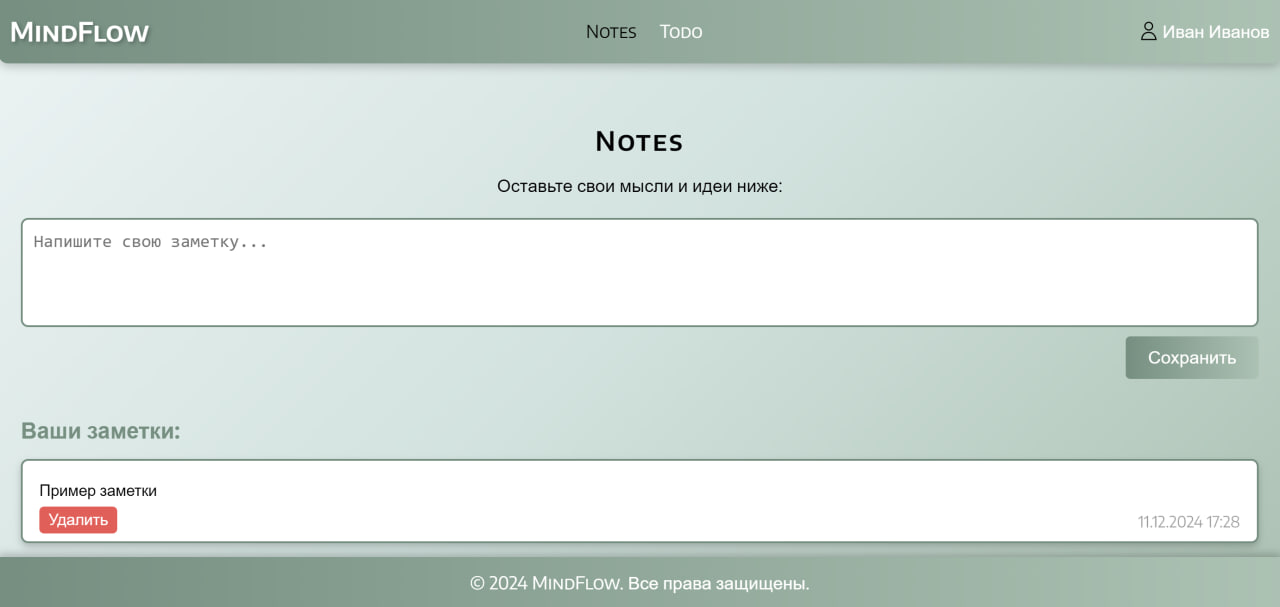
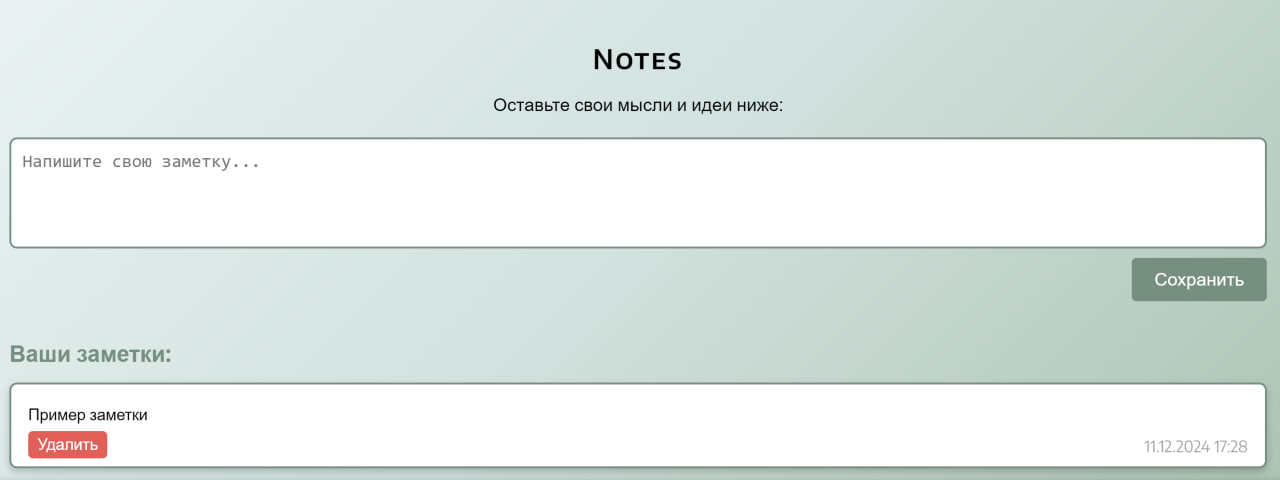
buttons, screenshots

diff --git a/register.html b/register.html
@@ -24,7 +24,7 @@
                 <label for="password">Пароль:</label>
                 <input type="password" id="password" name="password" required>
             </div>
-            <button class="register-btn" type="submit"><a href="notes.html">Зарегистрироваться</a></button>
+            <button class="register-btn" type="submit">Зарегистрироваться</button>
         </form>
         <div class="register-login">
             <p>Уже есть аккаунт?</p>

diff --git a/login.html b/login.html
@@ -20,7 +20,7 @@
                 <label for="password">Пароль:</label>
                 <input type="password" id="password" name="password" required>
             </div>
-            <button class="login-btn" type="submit"><a href="notes.html">Войти</a></button>
+            <button class="login-btn" type="submit">Войти</button>
         </form>
         <div class="login-register">
             <p>Нет аккаунта?</p>

diff --git a/css/register.css b/css/register.css
@@ -101,7 +101,7 @@ input {
 }
 
 .register-btn {
-    background: var(--gradient-btn);
+    background: var(--second-color);
     color: var(--second-text-color);
     font-size: 1.8rem;
     padding: 10px 20px;
@@ -109,11 +109,6 @@ input {
     border-radius: 5px;
     cursor: pointer;
     transition: all 0.3s ease;
-}
-
-.register-btn a {
-    text-decoration: none;
-    color: var(--second-text-color);
 }
 
 .register-btn:hover {

diff --git a/css/login.css b/css/login.css
@@ -101,7 +101,7 @@ input {
 }
 
 .login-btn {
-    background: var(--gradient-btn);
+    background: var(--second-color);
     color: var(--second-text-color);
     font-size: 1.8rem;
     padding: 10px 20px;
@@ -109,11 +109,6 @@ input {
     border-radius: 5px;
     cursor: pointer;
     transition: all 0.3s ease;
-}
-
-.login-btn a {
-    text-decoration: none;
-    color: var(--second-text-color);
 }
 
 .login-btn:hover {

diff --git a/css/style.css b/css/style.css
@@ -122,12 +122,11 @@ body {
 
 .login-button,
 .register-button {
-    font-family: var(--main-font-family);
-    color: var(--main-text-color);
+    color: var(--second-text-color);
     font-size: 1.6rem;
     font-weight: 400;
     line-height: 18px;
-    background: var(--gradient-btn);
+    background: var(--second-color);
     border-radius: 30px;
     padding: 11px 16px;
     border: none;

diff --git a/css/notes.css b/css/notes.css
@@ -216,7 +216,7 @@ body {
 }
 
 .save-btn {
-    background: var(--gradient-btn);
+    background: var(--second-color);
     color: var(--second-text-color);
     border: none;
     padding: 1rem 2rem;

diff --git a/css/todo.css b/css/todo.css
@@ -228,7 +228,7 @@ body {
 }
 
 .save-btn {
-    background: var(--gradient-btn);
+    background: var(--second-color);
     color: var(--second-text-color);
     border: none;
     padding: 1rem 2rem;
